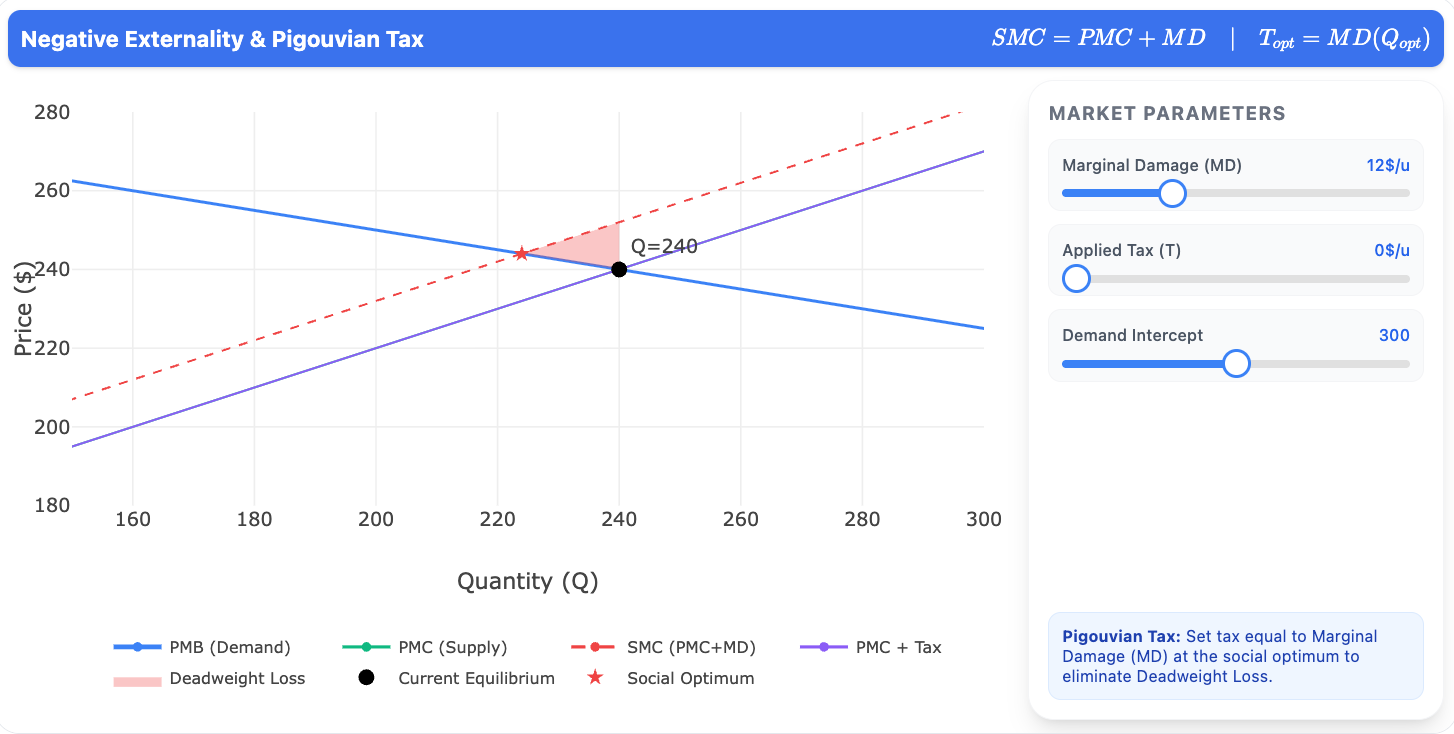
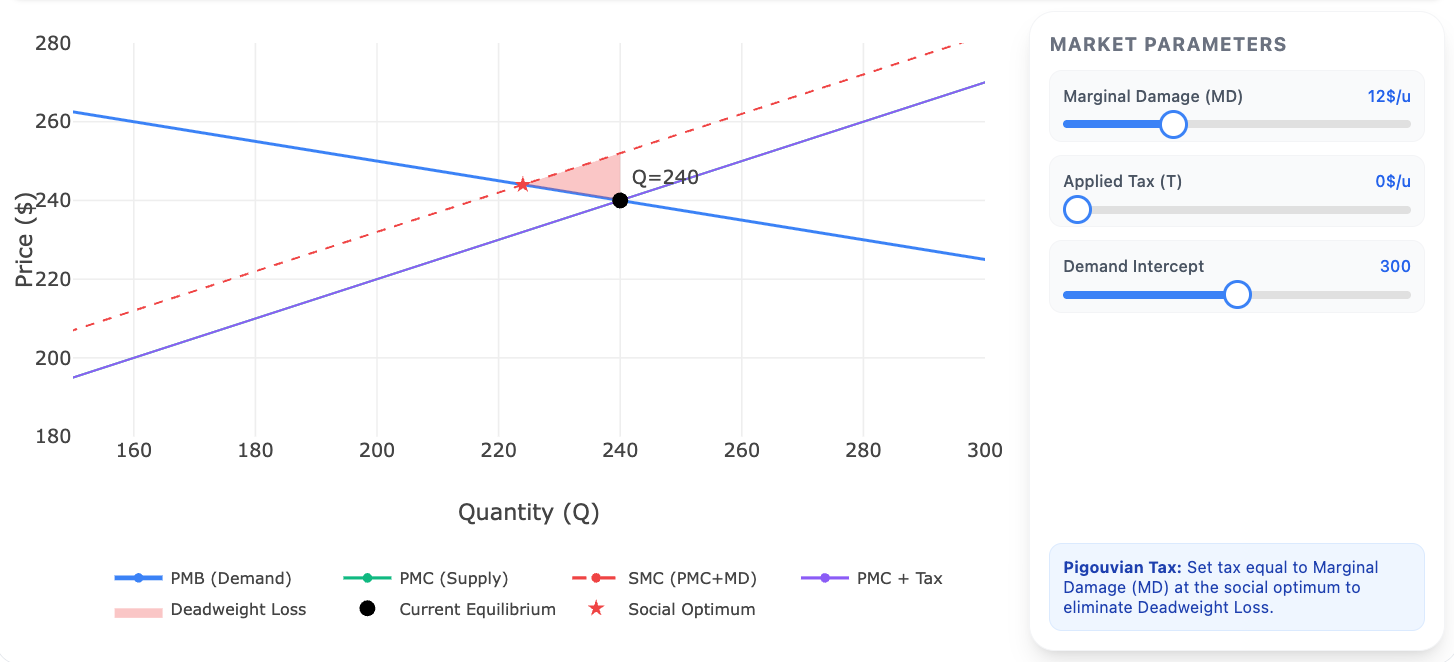
Update economics graph sample cover

diff --git a/index.html b/index.html
@@ -480,6 +480,7 @@
     .preview-graph svg, .preview-video svg { width:100%; height:100%; display:block; }
     .preview-graph-image { background:#fff; }
     .preview-graph-image img { width:100%; height:100%; display:block; object-fit:cover; object-position:center; }
+    .preview-graph-image.graph-externality img { object-fit:contain; }
     .preview-video { position: relative; }
     .preview-video img { width:100%; height:100%; display:block; object-fit:cover; }
     .preview-video.geometry img { object-position:center 28%; }
@@ -1999,7 +2000,7 @@
         'graph-limits': { src: 'assets/graph-limits-at-infinity.png', alt: 'Limits at infinity simulator' }
       };
       const preview = previews[type];
-      return `<div class="example-preview preview-graph-image"><img src="${preview.src}" alt="${preview.alt}" /></div>`;
+      return `<div class="example-preview preview-graph-image ${type}"><img src="${preview.src}" alt="${preview.alt}" /></div>`;
     }
 
     function parabolaLinePreview() {
